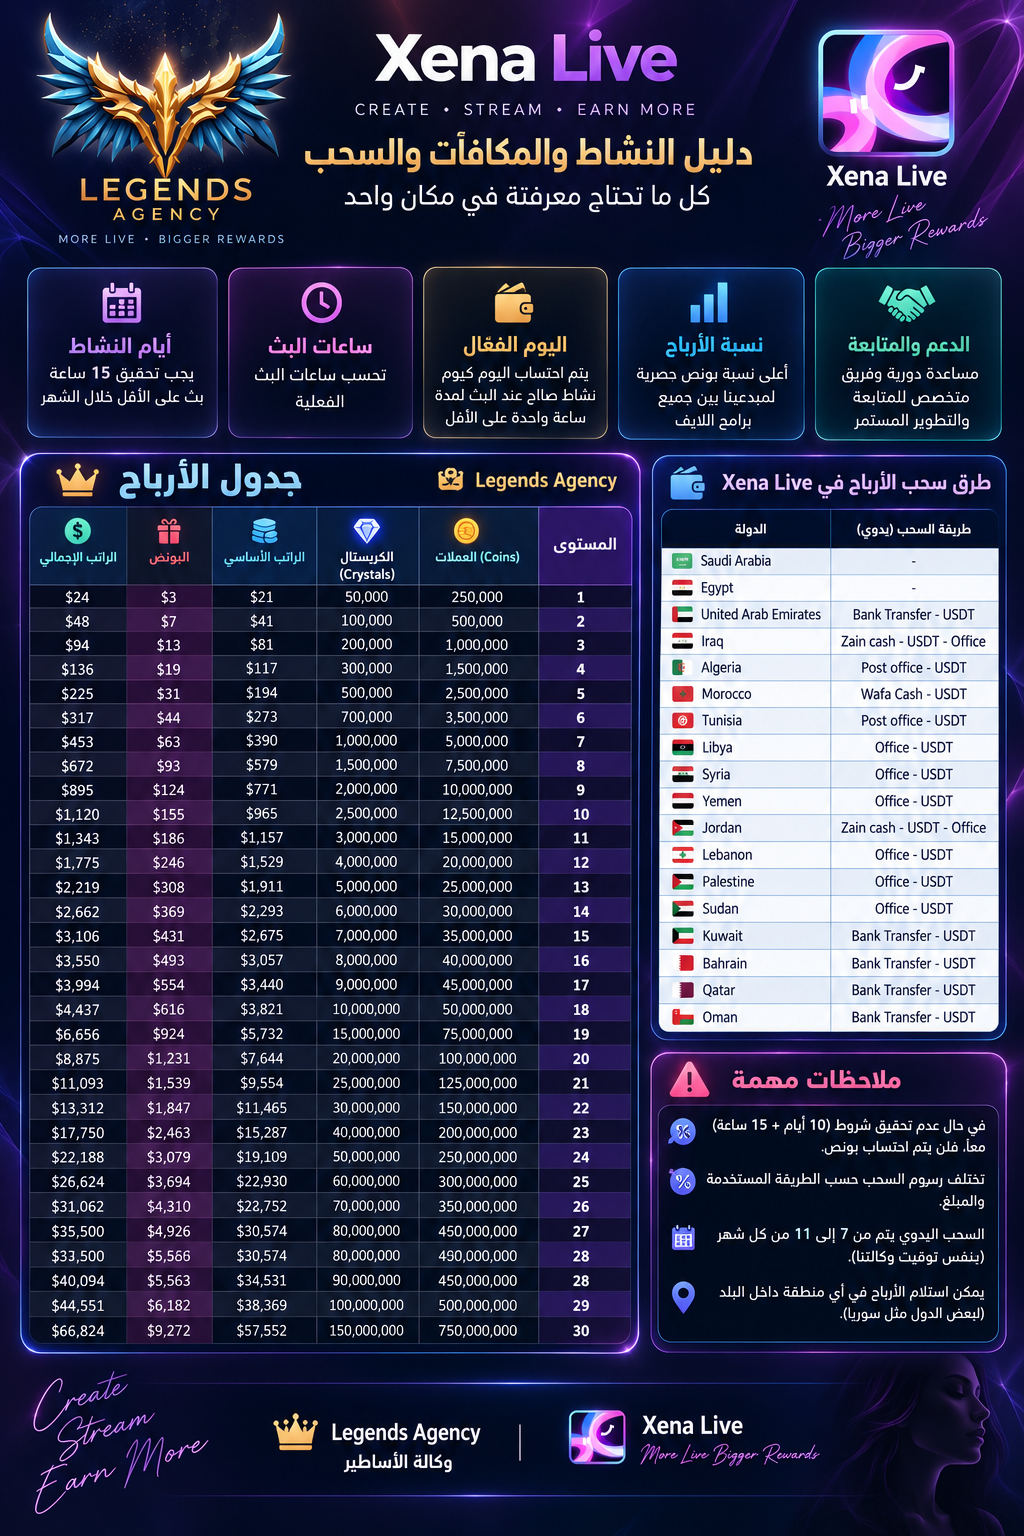
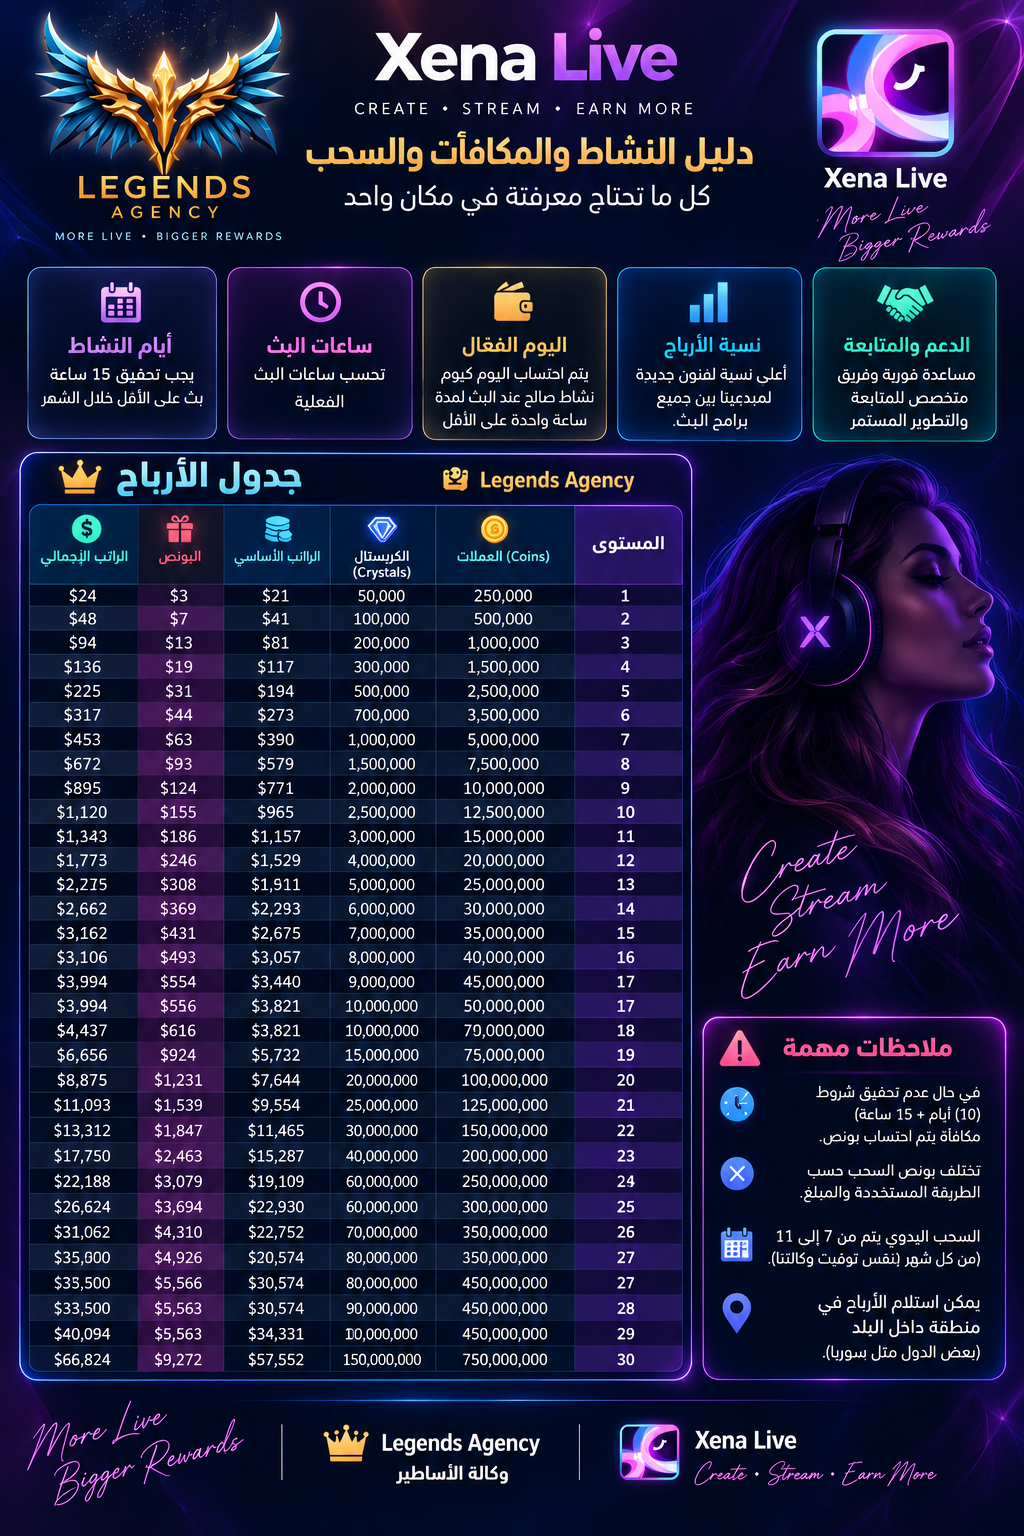
feat: replace earnings infographic with updated design featuring cyberpunk streamer and updated table

diff --git a/src/components/EarningsGuide.tsx b/src/components/EarningsGuide.tsx
@@ -75,12 +75,12 @@ export function EarningsGuide() {
 
         <p className={`text-sm sm:text-base text-white/70 max-w-2xl leading-relaxed mb-6 ${lang === 'ar' ? 'font-arabic' : 'font-sans'}`}>
           {t(
-            'كل ما تحتاج معرفته عن شروط الساعات الشهرية، سلم الرواتب لـ 30 مستوى حتى 66,824$ شهرياً، وطرق السحب المعتمدة في كافة الدول العربية والعالم.',
-            'Everything you need to know about monthly streaming targets, the 30-tier salary ladder up to $66,824/mo, and approved payout methods worldwide.',
-            'Все условия: требования к часам, 30 уровней выплат до $66,824/мес и проверенные способы вывода.',
-            'Tot ce trebuie să știi despre orele de streaming, grila de 30 de niveluri până la 66.824$/lună și metodele de retragere.',
-            'Tout ce que vous devez savoir sur les heures de streaming, l\'échelle de 30 niveaux jusqu\'à 66 824$/mois et les retraits.',
-            'Tutto ciò che devi sapere sulle ore di streaming, la scala di 30 livelli fino a $66.824/mese e i metodi di prelievo.'
+            'كل ما تحتاج معرفته عن شروط الساعات الشهرية، احتساب اليوم الفعال، وسلم الرواتب لـ 30 مستوى مع أعلى بونص كاش حصري لمذيعي وكالة الأساطير.',
+            'Everything you need to know about monthly broadcast targets, active day rules, and the 30-tier salary ladder with exclusive cash bonuses.',
+            'Все условия: требования к часам, активные дни и 30 уровней выплат с эксклюзивными бонусами.',
+            'Tot ce trebuie să știi despre orele de streaming, zilele active și grila de 30 de niveluri de salarii.',
+            'Tout ce que vous devez savoir sur les heures de live, les jours actifs et la grille de 30 niveaux.',
+            'Tutto ciò che devi sapere sulle ore di streaming, i giorni attivi e la scala di 30 livelli di guadagno.'
           )}
         </p>
 
